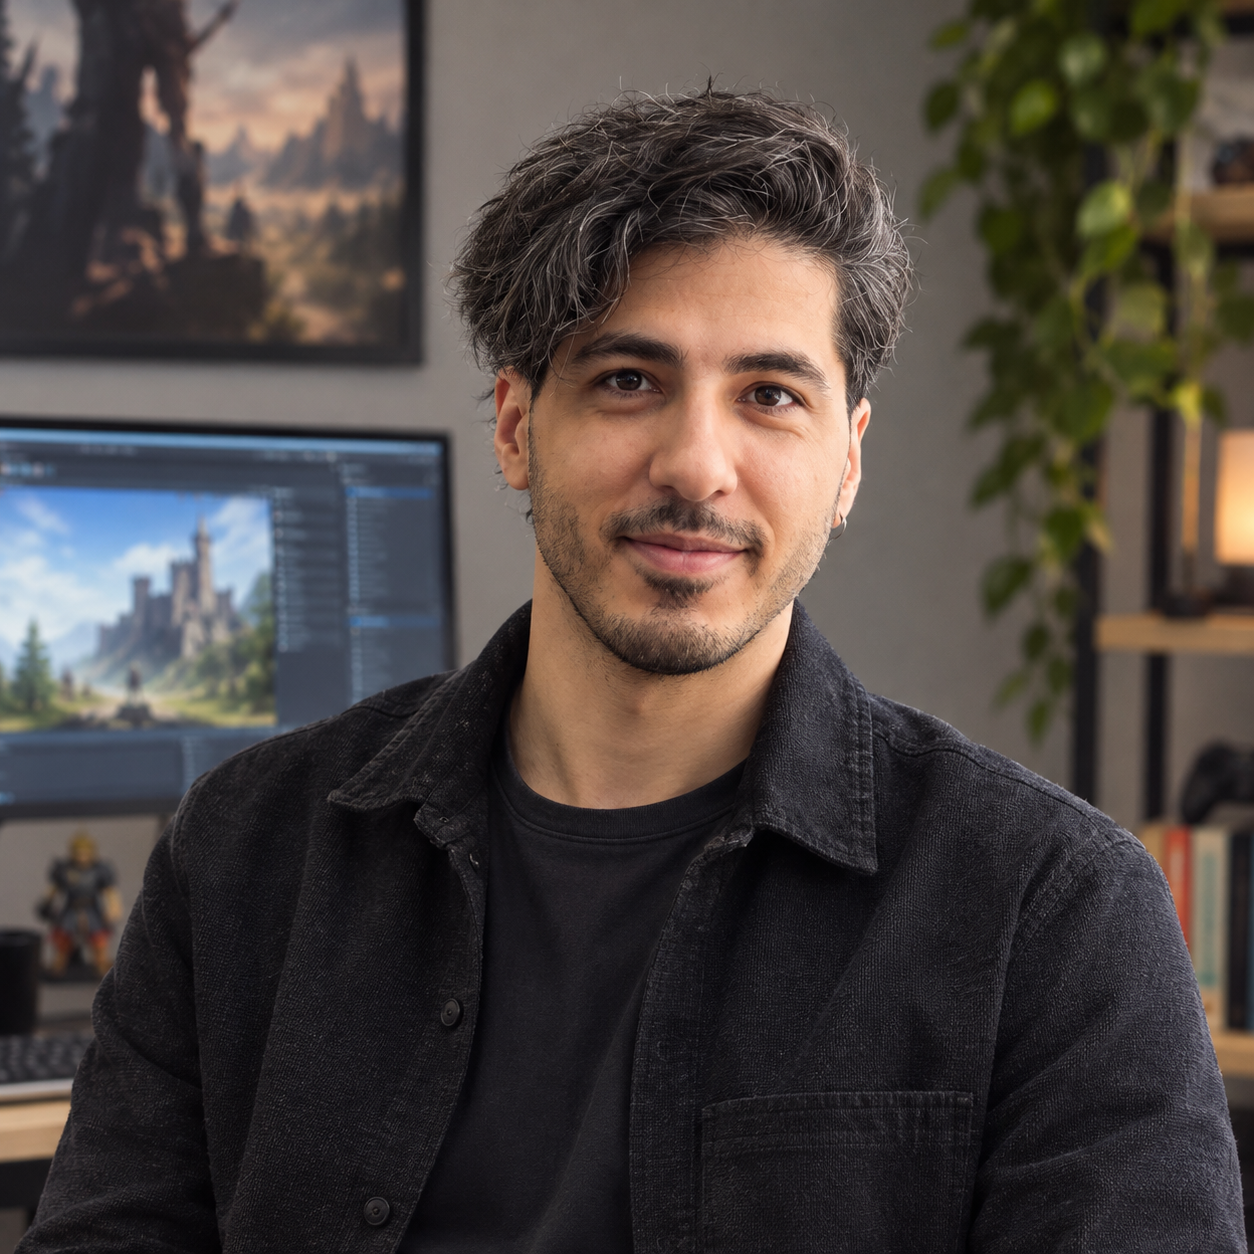
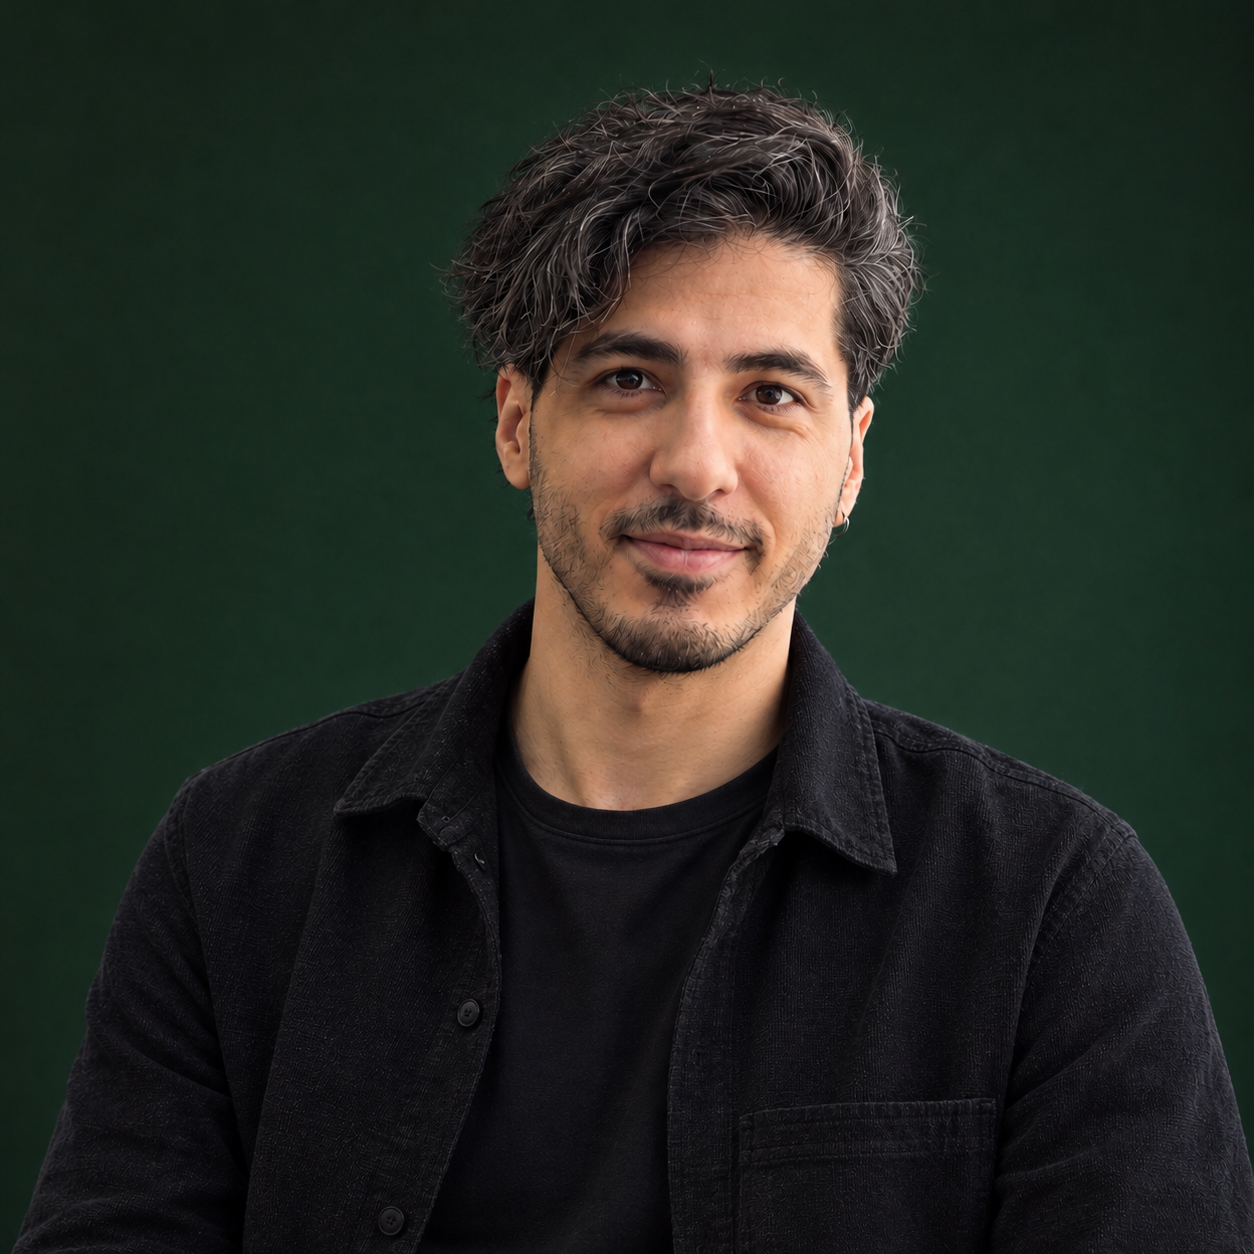
[Feat] Update images

diff --git a/src/components/Gallery.js b/src/components/Gallery.js
@@ -1,10 +1,12 @@
 import React, { useState } from "react";
 import Icon from "./Icon";
 import MediaModal from "./MediaModal";
+import { usePageLoaded } from "../hooks";
 
 // Masonry grid of screenshots; clicking one opens it in the lightbox.
 export default function Gallery({ images, title }) {
   const [open, setOpen] = useState(null);
+  const pageLoaded = usePageLoaded();
   if (!images.length) return null;
 
   const media = images.map((src) => ({ type: "image", src }));
@@ -14,7 +16,13 @@ export default function Gallery({ images, title }) {
       <div className="gallery">
         {images.map((src, i) => (
           <button key={src} className="gallery__item" onClick={() => setOpen(i)} aria-label={`Open screenshot ${i + 1}`}>
-            <img src={src} alt={`${title} screenshot ${i + 1}`} loading="lazy" />
+            <img
+              src={pageLoaded ? src : undefined}
+              alt={`${title} screenshot ${i + 1}`}
+              loading="lazy"
+              decoding="async"
+              fetchpriority="low"
+            />
             <span className="gallery__zoom" aria-hidden="true">
               <Icon name="expand" size={18} />
             </span>

diff --git a/src/components/About.js b/src/components/About.js
@@ -1,10 +1,12 @@
 import React, { useCallback, useState } from "react";
 import MediaModal from "./MediaModal";
 import { profile, sketches } from "../data/portfolio";
+import { usePageLoaded } from "../hooks";
 
 export default function About() {
   const [openAt, setOpenAt] = useState(null);
   const close = useCallback(() => setOpenAt(null), []);
+  const pageLoaded = usePageLoaded();
 
   return (
     <section id="about" className="section section--alt">
@@ -30,7 +32,13 @@ export default function About() {
           <div className="sketches__grid">
             {sketches.map((src, i) => (
               <button key={src} className="sketch" onClick={() => setOpenAt(i)} aria-label={`Open sketch ${i + 1}`}>
-                <img src={src} alt={`Sketch ${i + 1}`} loading="lazy" />
+                <img
+                  src={pageLoaded ? src : undefined}
+                  alt={`Sketch ${i + 1}`}
+                  loading="lazy"
+                  decoding="async"
+                  fetchpriority="low"
+                />
               </button>
             ))}
           </div>

diff --git a/src/hooks.js b/src/hooks.js
@@ -99,3 +99,26 @@ export function useHashRoute() {
   }, []);
   return slug;
 }
+
+// True once the page (and everything it requested up front) has finished loading,
+// plus an idle tick. Use it to hold back non-critical images so they load last.
+export function usePageLoaded() {
+  const [loaded, setLoaded] = useState(false);
+
+  useEffect(() => {
+    let idle;
+    const ready = () => {
+      const schedule = window.requestIdleCallback || ((cb) => setTimeout(cb, 200));
+      idle = schedule(() => setLoaded(true));
+    };
+    if (document.readyState === "complete") ready();
+    else window.addEventListener("load", ready, { once: true });
+    return () => {
+      window.removeEventListener("load", ready);
+      if (idle && window.cancelIdleCallback) window.cancelIdleCallback(idle);
+      else clearTimeout(idle);
+    };
+  }, []);
+
+  return loaded;
+}

diff --git a/src/App.scss b/src/App.scss
@@ -2019,3 +2019,17 @@ ol {
     transition: none;
   }
 }
+
+// Gallery images are held back until the page has loaded; keep a placeholder box meanwhile.
+.gallery__item img:not([src]),
+.sketch img:not([src]) {
+  aspect-ratio: 4 / 3;
+  background: linear-gradient(110deg, var(--surface) 30%, var(--surface-strong) 50%, var(--surface) 70%) 0 0 / 200% 100%;
+  animation: shimmer 1.4s linear infinite;
+}
+
+@keyframes shimmer {
+  to {
+    background-position: -200% 0;
+  }
+}
